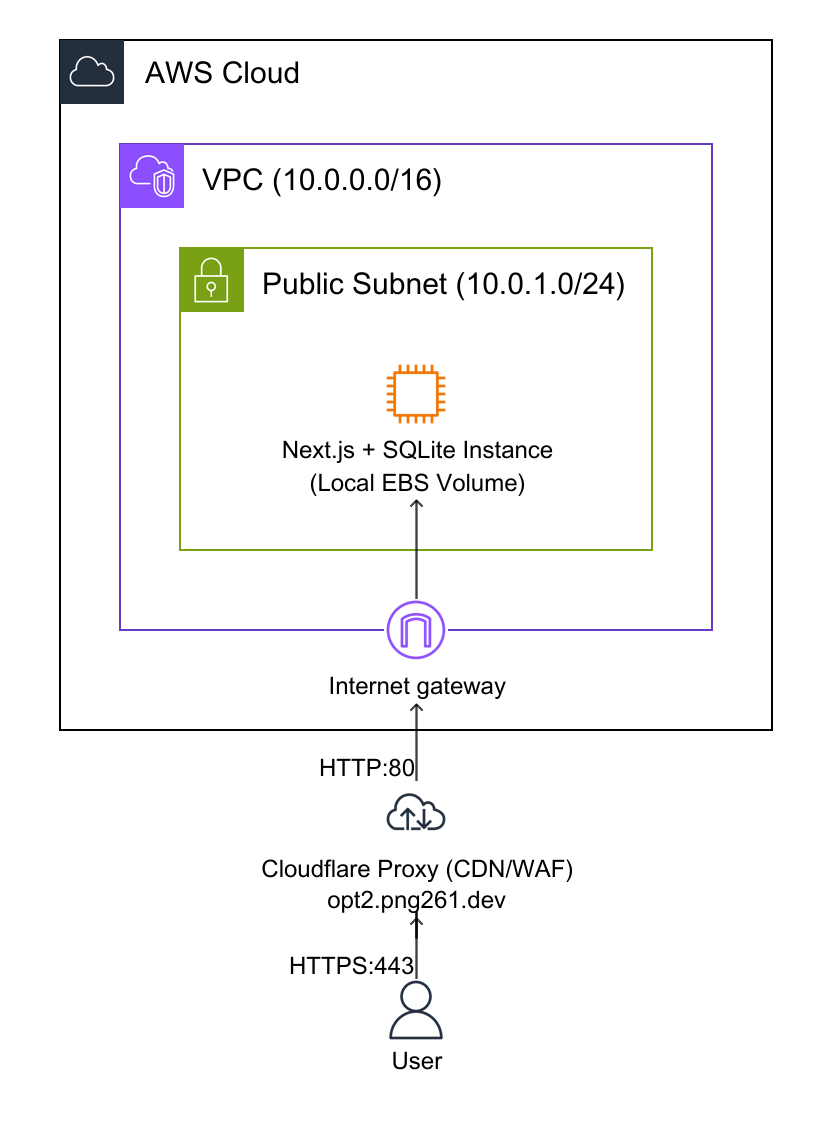
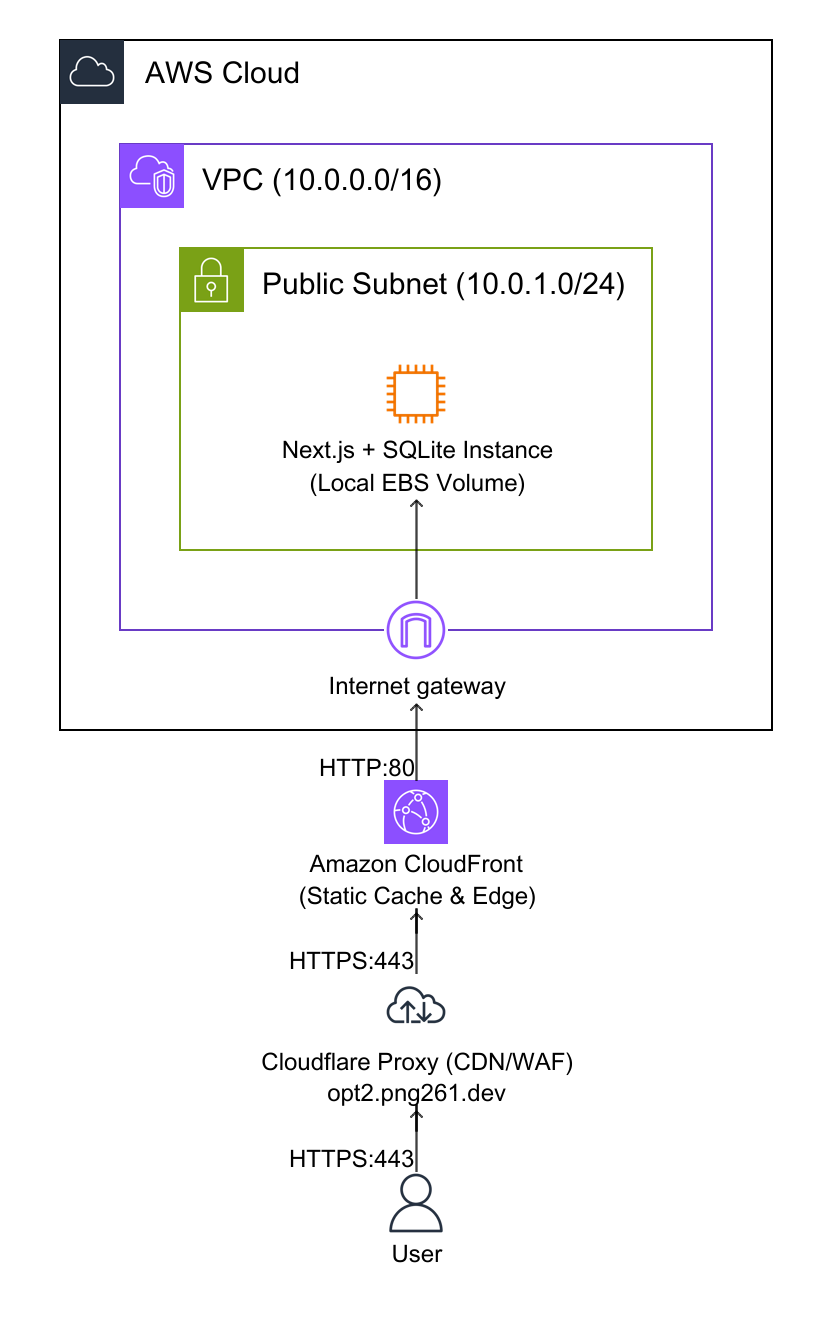
feat(infra): add CloudFront edge caching and update architecture diagram for Option 2

Changed region(s): [[0.0625, 0.031, 0.875, 0.961], [0.9062, 0.62, 0.9375, 0.651], [0.0625, 0.62, 0.0938, 0.651]]

diff --git a/README.md b/README.md
@@ -37,6 +37,10 @@ No costed resources detected.
 ## 3. Kiến trúc Hạ tầng (Architecture Diagram)
 ![Architecture](infra/architecture_diagram.png)
 
+### Điểm nổi bật của kiến trúc:
+- **CloudFront CDN Edge Caching:** Caching tối ưu cho static assets (`/_next/static/*`, `/static/*`), giảm tải request vào EC2 instance duy nhất, giúp bảo vệ tài nguyên CPU/RAM cho database SQLite chạy cục bộ.
+- **Single EC2 Web + Local Database:** Máy chủ EC2 chạy Dockerized Node.js/Next.js kết hợp database SQLite cục bộ lưu trên ổ đĩa EBS gp3 mã hóa.
+- **Cloudflare Proxy + Custom Domain:** Định tuyến người dùng qua Cloudflare CDN/WAF tới CloudFront endpoint.
 
 ## 📸 Giao Diện Ứng Dụng Thực Tế (Live Screenshots - Dev & Prod)
 
@@ -79,12 +83,12 @@ Quy trình tuân thủ nghiêm ngặt chuẩn DevOps hiện đại:
 Hạ tầng hỗ trợ ánh xạ tên miền `png261.dev` cho cả môi trường Development và Production:
 
 | Môi trường | Nhánh Git | Subdomain | Loại bản ghi DNS | Giá trị đích (Target) | Proxy Cloudflare |
-| :--- | :--- | :--- | :---: | :--- | :---: |
-| **Development** | `dev` | `opt2-dev.png261.dev` | `A` | `${ServerEIP.PublicIp}` (Dev EIP) | Bật (Proxied ☁) |
-| **Production** | `main` | `opt2.png261.dev` | `A` | `${ServerEIP.PublicIp}` (Prod EIP) | Bật (Proxied ☁) |
+| :--- | :--- | :--- | :---: | :--- | :--- |
+| **Development** | `dev` | `opt2-dev.png261.dev` | `CNAME` | `${CloudFrontDistribution.DomainName}` | Bật (Proxied ☁) |
+| **Production** | `main` | `opt2.png261.dev` | `CNAME` | `${CloudFrontDistribution.DomainName}` | Bật (Proxied ☁) |
 
 > 💡 **Khuyến nghị SSL/HTTPS qua Cloudflare:**
-> Do tên miền `png261.dev` được quản trị Nameserver tại Cloudflare, khi tạo bản ghi `A` với trạng thái **Proxied (Đám mây màu cam ☁)**:
+> Do tên miền `png261.dev` được quản trị Nameserver tại Cloudflare, khi tạo bản ghi `CNAME` với trạng thái **Proxied (Đám mây màu cam ☁)**:
 > - Cloudflare sẽ tự động cấp chứng chỉ **Universal SSL/TLS miễn phí** (HTTPS xanh).
 > - Tự động kích hoạt CDN caching và bảo vệ chống tấn công DDoS Lớp 7.
 
